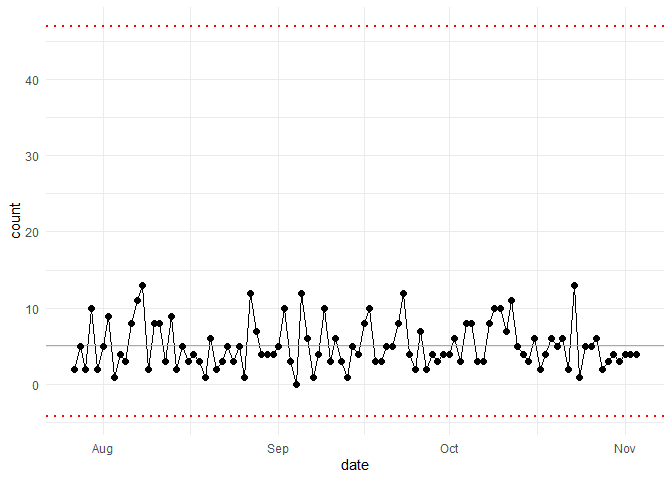
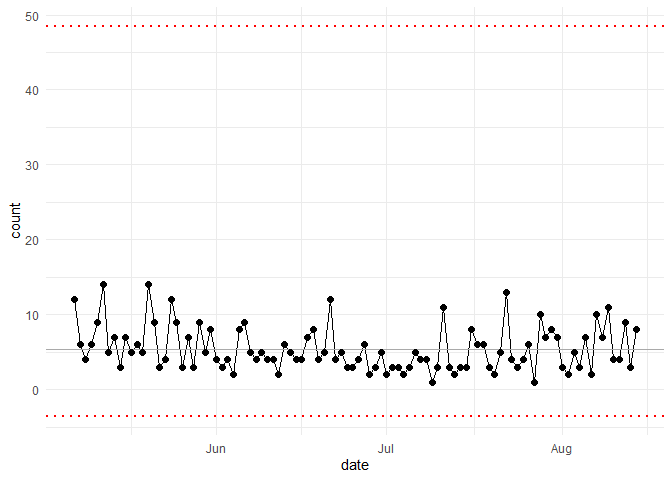
prep for cran

diff --git a/README.md b/README.md
@@ -95,7 +95,7 @@ data_tbl <- tibble::tibble(
 my_chart <- hai_control_chart(data_tbl, count, date)
 ```
 
-<img src="man/figures/README-example_control_chart-1.png" width="100%" />
+<img src="man/figures/README-example_control_chart-1.png" alt="" width="100%" />
 
 ``` r
 my_chart +
@@ -104,7 +104,7 @@ my_chart +
   theme(axis.text.x = element_text(angle = -90, vjust = 0.5, hjust = 1))
 ```
 
-<img src="man/figures/README-example_control_chart-2.png" width="100%" />
+<img src="man/figures/README-example_control_chart-2.png" alt="" width="100%" />
 
 ### AutoML with K-Nearest Neighbors
 
@@ -130,8 +130,8 @@ knn_results <- hai_auto_knn(
 )
 
 # Access the best model
-best_model <- knn_results$model_info %>%
-  dplyr::filter(model_spec == knn_results$best_model_spec) %>%
+best_model <- knn_results$model_info |>
+  dplyr::filter(model_spec == knn_results$best_model_spec) |>
   dplyr::pull(model)
 ```
 
@@ -142,8 +142,8 @@ library(healthyR.ai)
 library(dplyr)
 
 # Prepare data
-data_tbl <- healthyR.data::healthyR_data %>%
-  dplyr::select(length_of_stay, age) %>%
+data_tbl <- healthyR.data::healthyR_data |>
+  dplyr::select(length_of_stay, age) |>
   dplyr::filter(length_of_stay < 20)
 
 # Auto K-Means - finds optimal clusters
@@ -166,9 +166,9 @@ library(healthyR.ai)
 library(recipes)
 
 # Create a recipe with custom preprocessing steps
-rec <- recipe(mpg ~ ., data = mtcars) %>%
-  step_hai_scale_zscore(all_numeric_predictors()) %>%
-  step_hai_fourier(disp, period = 365, order = 1) %>%
+rec <- recipe(mpg ~ ., data = mtcars) |>
+  step_hai_scale_zscore(all_numeric_predictors()) |>
+  step_hai_fourier(disp, period = 365, order = 1) |>
   step_hai_hyperbolic(hp, wt)
 
 # Prep and bake

diff --git a/NEWS.md b/NEWS.md
@@ -10,7 +10,8 @@ and `parallel::stopCluster()` instead of `modeltime::parallel_start()` and
 packages.
 3. Fix #376 - Deprecate magrittr `%>%` in favor of native R pipe `|>`. This 
 requires R >= 4.1.0. The `magrittr` package has been removed from Imports.
-4. Fix #379 - Deprecate `hai_kmeans_automl()` and `hai_kmeans_automl_predict()` - remove h2o dependency
+4. Fix #379 - Deprecate `hai_kmeans_automl()` and `hai_kmeans_automl_predict()` 
+- remove h2o dependency
 
 ## New Features
 None

diff --git a/cran-comments.md b/cran-comments.md
@@ -6,4 +6,4 @@
 
 0 errors | 0 warnings | 0 note
 
-Update package to prevent CRAN archiving
+Update package to make small changes and drop some dependencies
